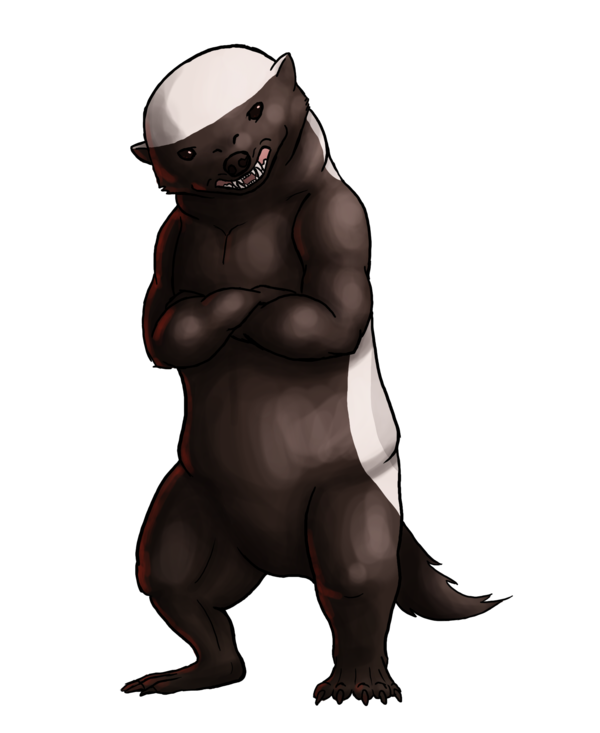
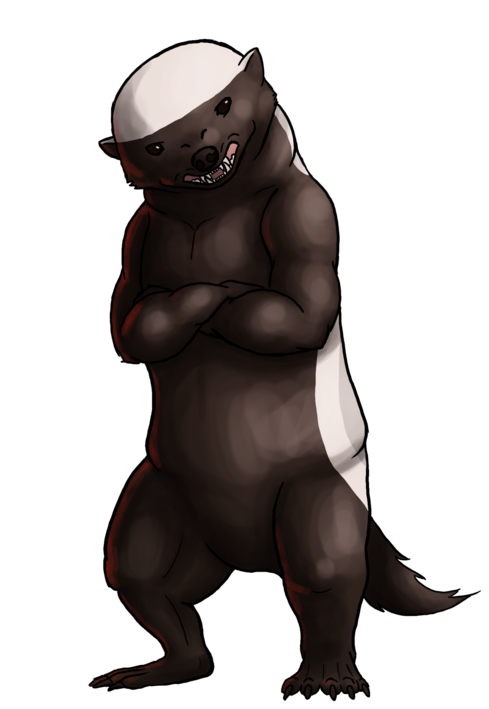
Some refactoring

diff --git a/static/css/main.css b/static/css/main.css
@@ -1,7 +1,14 @@
 body {
-  padding-top: 50px;
+    padding-top: 50px;
 }
+
 .template {
-  padding: 40px 15px;
-  text-align: center;
+    padding: 40px 15px;
+    text-align: center;
+    max-height: 100%
+}
+
+.center-block .img-responsive {
+    margin: auto;
+    max-height: 100%
 }

diff --git a/static/css/bootstrap.css b/static/css/bootstrap.css
@@ -4275,7 +4275,7 @@ select[multiple].input-group-sm > .input-group-btn > .btn {
   border-width: 1px 0 0;
 }
 .navbar-brand {
-  float: left;
+  /*float: left;*/
   height: 50px;
   padding: 15px 15px;
   font-size: 18px;

diff --git a/crawler.py b/crawler.py
@@ -1,4 +1,4 @@
-from bottle import Bottle, view, request,redirect
+from bottle import Bottle, view, request, redirect
 from wtforms import Form, StringField, IntegerField, BooleanField, validators
 
 import urllib.request
@@ -21,6 +21,7 @@ Base.metadata.create_all(engine)
 
 DBSession = sessionmaker(bind=engine)
 session = DBSession()
+
 
 class CrawlerFormProcessor(Form):
     url = StringField('URL', [validators.URL(require_tld=False, message="Must be valid URL")],
@@ -160,10 +161,10 @@ def crawler():
                     session.add(new_page)
                     session.commit()
             except:
-               session.rollback()
-               raise
+                session.rollback()
+                raise
             finally:
-               session.close()
+                session.close()
         session.commit()
         print("Finish: " + form.url.data)
         redirect("/pages")

diff --git a/search.py b/search.py
@@ -22,6 +22,7 @@ sa.orm.configure_mappers()
 DBSession = sessionmaker(bind=engine)
 session = DBSession()
 
+
 # Base = declarative_base()
 
 
@@ -39,8 +40,8 @@ def search(s_req):
         redirect("/search/" + req)
 
     query = session.query(Page)
-    pages = ss.search(query,'123')
-    print(pages.all() )
+    pages = ss.search(query, '123')
+    print(pages.all())
 
     return locals()
 
@@ -54,4 +55,3 @@ def search():
         req = form.request.data
         redirect("/search/" + req)
     return locals()
-

diff --git a/medojed.py b/medojed.py
@@ -1,6 +1,5 @@
 from bottle import Bottle, static_file, view
 
-
 from crawler import crawler_app
 from pages import pages_app
 from search import search_app
@@ -32,6 +31,7 @@ def server_static(filepath):
 @root_app.route('/fonts/<filepath:path>')
 def server_static(filepath):
     return static_file(filepath, root='./static/fonts')
+
 
 if __name__ == '__main__':
     root_app.merge(crawler_app)

diff --git a/pages.py b/pages.py
@@ -2,7 +2,7 @@ from bottle import view, redirect, Bottle
 
 from sqlalchemy import create_engine
 from sqlalchemy.orm import sessionmaker
-from model import Base, Page,Relation
+from model import Base, Page, Relation
 from sqlalchemy.engine.url import URL
 
 import config
